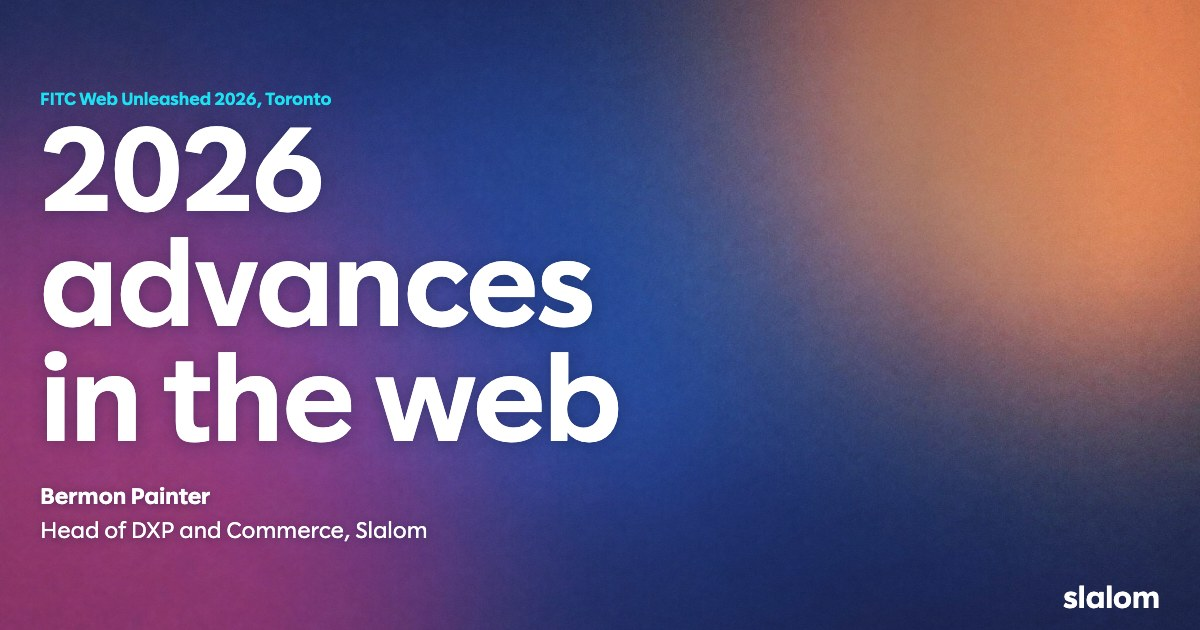
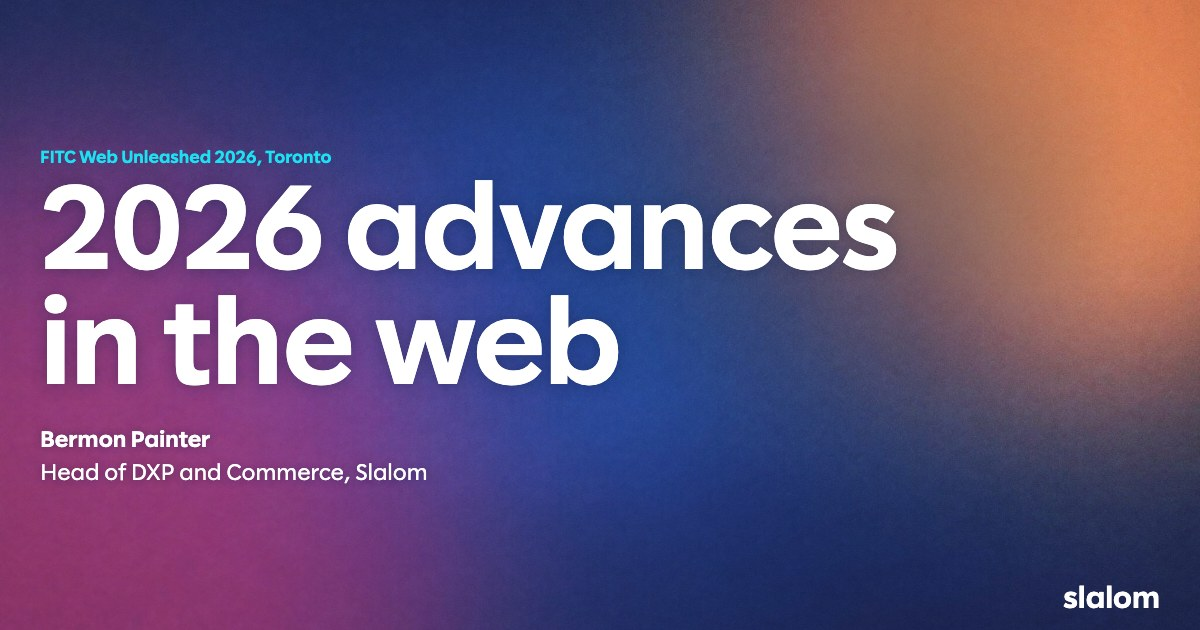
Cover title back to two lines at 192 px
A soft navy ellipse joins the existing wash where the first line meets the
orange glow, so every cover zone passes contrast (line one 4.81:1). The
Open Graph image is regenerated from the new cover.

Changed region(s): [[0.0308, 0.1206, 0.8942, 0.8746]]

diff --git a/styles/components/slides-glass.css b/styles/components/slides-glass.css
@@ -136,7 +136,8 @@
 
 /* Washes under text that sits on the field (content/backgrounds.ts, `scrim`): a navy wash across
    the title's width, and a white band behind the people slide's title. The contrast test
-   composites the same values. */
+   composites the same values. On the cover a soft navy ellipse (0.22 on its plateau) sits on top
+   of the 0.24 wash where "advances" meets the orange glow, so the two read as 0.40 there (r7-spec 1). */
 .sg--title::before,
 .sg--people::before {
   content: "";
@@ -145,7 +146,9 @@
   pointer-events: none;
 }
 .sg--title::before {
-  background: linear-gradient(90deg, rgb(15 28 65 / 0.24) 0, rgb(15 28 65 / 0.24) 1480px, rgb(15 28 65 / 0) 1800px);
+  background:
+    radial-gradient(ellipse 560px 360px at 1340px 386px, rgb(15 28 65 / 0.22) 0, rgb(15 28 65 / 0.22) 35%, rgb(15 28 65 / 0.15) 55%, rgb(15 28 65 / 0.06) 78%, rgb(15 28 65 / 0) 100%),
+    linear-gradient(90deg, rgb(15 28 65 / 0.24) 0, rgb(15 28 65 / 0.24) 1480px, rgb(15 28 65 / 0) 1800px);
 }
 .sg--people::before {
   background: linear-gradient(rgb(255 255 255 / 0.5) 0, rgb(255 255 255 / 0.5) 152px, rgb(255 255 255 / 0) 220px);
@@ -154,9 +157,10 @@
   position: relative;
 }
 
-/* Cover (PRD r7 4; docs/design/r7-spec.md 1): eyebrow, a three-line 192 px title, then the
-   speaker's name and job title, as one left-aligned group centered in the slide's height. Three
-   lines keep every glyph left of x 1000, clear of the orange glow top right. Plain text, no card. */
+/* Cover (PRD r7 4; docs/design/r7-spec.md 1): eyebrow, a two-line 192 px title, then the
+   speaker's name and job title, as one left-aligned group centered in the slide's height. Line one
+   ends at x 1437, on the glow's lower left edge; the ellipse in the wash above keeps it 4.5:1 or
+   better. Plain text, no card. */
 .sg--title {
   @apply flex flex-col justify-center items-start;
 }

diff --git a/content/backgrounds.ts b/content/backgrounds.ts
@@ -70,11 +70,15 @@ export const BACKGROUNDS = {
     lead: "navy",
     hues: ["navy", "cobalt", "magenta", "orange"],
     textZone: [
-      // The cover group (PRD r7 4.3; docs/design/r7-spec.md 1): centered on y 540, every glyph left of x 1024.
-      { name: "eyebrow", x: 64, y: 174, w: 560, h: 36, on: "field", ink: "white", scrim: { color: "navy", alpha: 0.24 } },
-      { name: "title", x: 64, y: 202, w: 960, h: 552, on: "field", ink: "white", scrim: { color: "navy", alpha: 0.24 } },
-      { name: "name", x: 64, y: 802, w: 900, h: 50, on: "field", ink: "white", scrim: { color: "navy", alpha: 0.24 } },
-      { name: "role", x: 64, y: 856, w: 900, h: 50, on: "field", ink: "white", scrim: { color: "navy", alpha: 0.24 } },
+      // The cover group (PRD r7 4.3; docs/design/r7-spec.md 1): centered on y 540, two title lines
+      // as line boxes. Line one ends at x 1437, so its right end gets its own zone under the wash's
+      // ellipse (0.24 plus 0.22 renders 0.404 or more there; 0.40 is the floor the test composites).
+      { name: "eyebrow", x: 64, y: 266, w: 560, h: 36, on: "field", ink: "white", scrim: { color: "navy", alpha: 0.24 } },
+      { name: "title line 1", x: 64, y: 294, w: 1176, h: 184, on: "field", ink: "white", scrim: { color: "navy", alpha: 0.24 } },
+      { name: "title line 1, glow edge", x: 1240, y: 294, w: 197, h: 184, on: "field", ink: "white", scrim: { color: "navy", alpha: 0.4 } },
+      { name: "title line 2", x: 64, y: 478, w: 929, h: 184, on: "field", ink: "white", scrim: { color: "navy", alpha: 0.24 } },
+      { name: "name", x: 64, y: 710, w: 900, h: 50, on: "field", ink: "white", scrim: { color: "navy", alpha: 0.24 } },
+      { name: "role", x: 64, y: 764, w: 900, h: 50, on: "field", ink: "white", scrim: { color: "navy", alpha: 0.24 } },
     ],
   },
   "the-mandate": {

diff --git a/content/slides/01-title.ts b/content/slides/01-title.ts
@@ -3,7 +3,7 @@ import { deck } from "@/content/deck";
 
 /**
  * The title slide, a native glass layout (PRD v5, 4.5; spec 6.2). PRD r7, 4.2: the 192 px title in
- * three lines, with the speaker's name and job title from `deck.speaker` under it.
+ * two lines (docs/design/r7-spec.md 1), with the speaker's name and job title from `deck.speaker` under it.
  */
 export const slide: Slide = {
   id: "title",
@@ -14,7 +14,7 @@ export const slide: Slide = {
   glass: {
     kind: "title",
     eyebrow: deck.event.label,
-    lines: ["2026", "advances", "in the web"],
+    lines: ["2026 advances", "in the web"],
   },
   citations: [],
   speakerNotes: `Title slide. ${deck.event.label}. Say it: ${deck.speaker.name}, ${deck.speaker.title} at ${deck.speaker.org}. Say the thesis: in 2026 the browser shipped more than the frameworks on it.`,

diff --git a/docs/design/r7-spec.md b/docs/design/r7-spec.md
@@ -6,12 +6,14 @@ Styles live in the WS-F files named in PRD 12. This page is the contract between
 
 ## 1. Cover (`styles/components/slides-glass.css`, `.sg--title`)
 
+The speaker asked for the title in two lines again: "2026 advances", then "in the web". It stays 192 px. This replaces the three-line break of PRD r7 4.2; the PRD's 144 px fallback is not needed.
+
 Markup (WS-B, `GlassSlide.tsx`, title branch). Every element is a direct child of the section, in this order:
 
 ```html
 <section class="sg sg--title" data-tone="dark">
   <p class="sg-eyebrow">FITC Web Unleashed 2026, Toronto</p>
-  <h1 class="sg-display sg-title-lines"><span>2026</span><span>advances</span><span>in the web</span></h1>
+  <h1 class="sg-display sg-title-lines"><span>2026 advances</span><span>in the web</span></h1>
   <p class="sg-cover__name"><a href="…linkedin…" target="_blank" rel="me noopener">Bermon Painter<span class="visually-hidden">, opens in a new tab</span></a></p>
   <p class="sg-cover__role">Head of DXP and Commerce, Slalom</p>
   <a class="sg-wordmark" href="https://www.slalom.com" target="_blank" rel="noopener">slalom<span class="visually-hidden">, opens in a new tab</span></a>
@@ -23,18 +25,50 @@ The wordmark may also stay a `<p class="sg-wordmark">` wrapping the link; the CS
 ```text
 Region     x     y     w     h     Contents
 ---------  ----  ----  ----  ----  -------------------------------------------------
-Group      64    174   960   732   flex column, centered in the slide (center y 540)
-  Eyebrow  64    174   560   36    28/36 Bold cyan
-  Title    64    202   960   552   192/184 Bold white, three lines, -8 top margin
-  Name     64    802   900   50    36/50 Bold white, a link
-  Role     64    856   900   50    36/50 Regular white, 4 below the name
+Group      64    266   1373  548   flex column, centered in the slide (center y 540)
+  Eyebrow  64    266   560   36    28/36 Bold cyan
+  Title    64    294   1373  368   192/184 Bold white, two lines, -8 top margin
+    Line 1 64    294   1373  184   "2026 advances", glyphs end at x 1437
+    Line 2 64    478   929   184   "in the web", glyphs end at x 993
+  Name     64    710   900   50    36/50 Bold white, a link
+  Role     64    764   900   50    36/50 Regular white, 4 below the name
 Wordmark   right 64, bottom 64     48/56 Bold white, a link
 ```
 
-- The PRD's 4.3 table places the title at y 218, a 24 px gap that predates the r6 L1 fix. The -8 margin stays, so the group is 732 tall, not 764, and every row moves up by 16 px. The center stays at 540.
+- The -8 margin stays, so the group is 548 tall and its center stays at 540.
 - Gaps: 48 px from the title's line box to the name, 4 px from name to role.
 - The name and role carry the title's soft text shadow, so the three sit as one plain-text group with no card.
-- Text zones in `content/backgrounds.ts` match these rows, padded to whole glyph boxes.
+
+### Wash
+
+Line one ends on the lower left edge of the orange glow. Under the 0.24 navy wash alone, its brightest pixel (rgb 223 158 128, at x 1435) gives white 3.48:1. The cover's `::before` adds one soft layer on top of the existing linear wash:
+
+```css
+radial-gradient(ellipse 560px 360px at 1340px 386px,
+  rgb(15 28 65 / 0.22) 0, rgb(15 28 65 / 0.22) 35%, rgb(15 28 65 / 0.15) 55%,
+  rgb(15 28 65 / 0.06) 78%, rgb(15 28 65 / 0) 100%)
+```
+
+- The plateau (0.22, to 35% of the radii) covers line one's right end, x 1240 to 1437 and y 294 to 478. Over the 0.24 wash it renders as 0.404 to 0.408 navy there.
+- It fades over about 360 px with eased stops, so it reads as the glow starting a little further right, not as a shape. No edge shows at 1920 by 1080 or in the Open Graph image.
+- The linear wash is unchanged: 0.24 to x 1480, then 0 by x 1800.
+
+### Text zones and contrast
+
+Text zones in `content/backgrounds.ts` are the line boxes above. Line one is split at x 1240 so the test can composite the ellipse's floor where it matters:
+
+```text
+Zone                      x     y    w     h    Wash  White on worst pixel (pnpm test:contrast)
+------------------------  ----  ---  ----  ---  ----  -----------------------------------------
+eyebrow                   64    266  560   36   0.24  8.37:1
+title line 1              64    294  1176  184  0.24  4.76:1
+title line 1, glow edge   1240  294  197   184  0.40  4.81:1 (rendered composite: 4.89:1)
+title line 2              64    478  929   184  0.24  6.15:1
+name                      64    710  900   50   0.24  6.17:1
+role                      64    764  900   50   0.24  6.30:1
+```
+
+The eyebrow is cyan (#1BE1F2), not white. The test checks its zone as white; cyan on the same worst pixel under the 0.24 wash is 5.22:1. If the title ever moves or grows, line one must stay inside the ellipse's plateau, and the walk (`scripts/walk-r7.mts`) fails past x 1440 or on any line count but two.
 
 ## 2. Links on slides (`slides-glass.css`)
 
